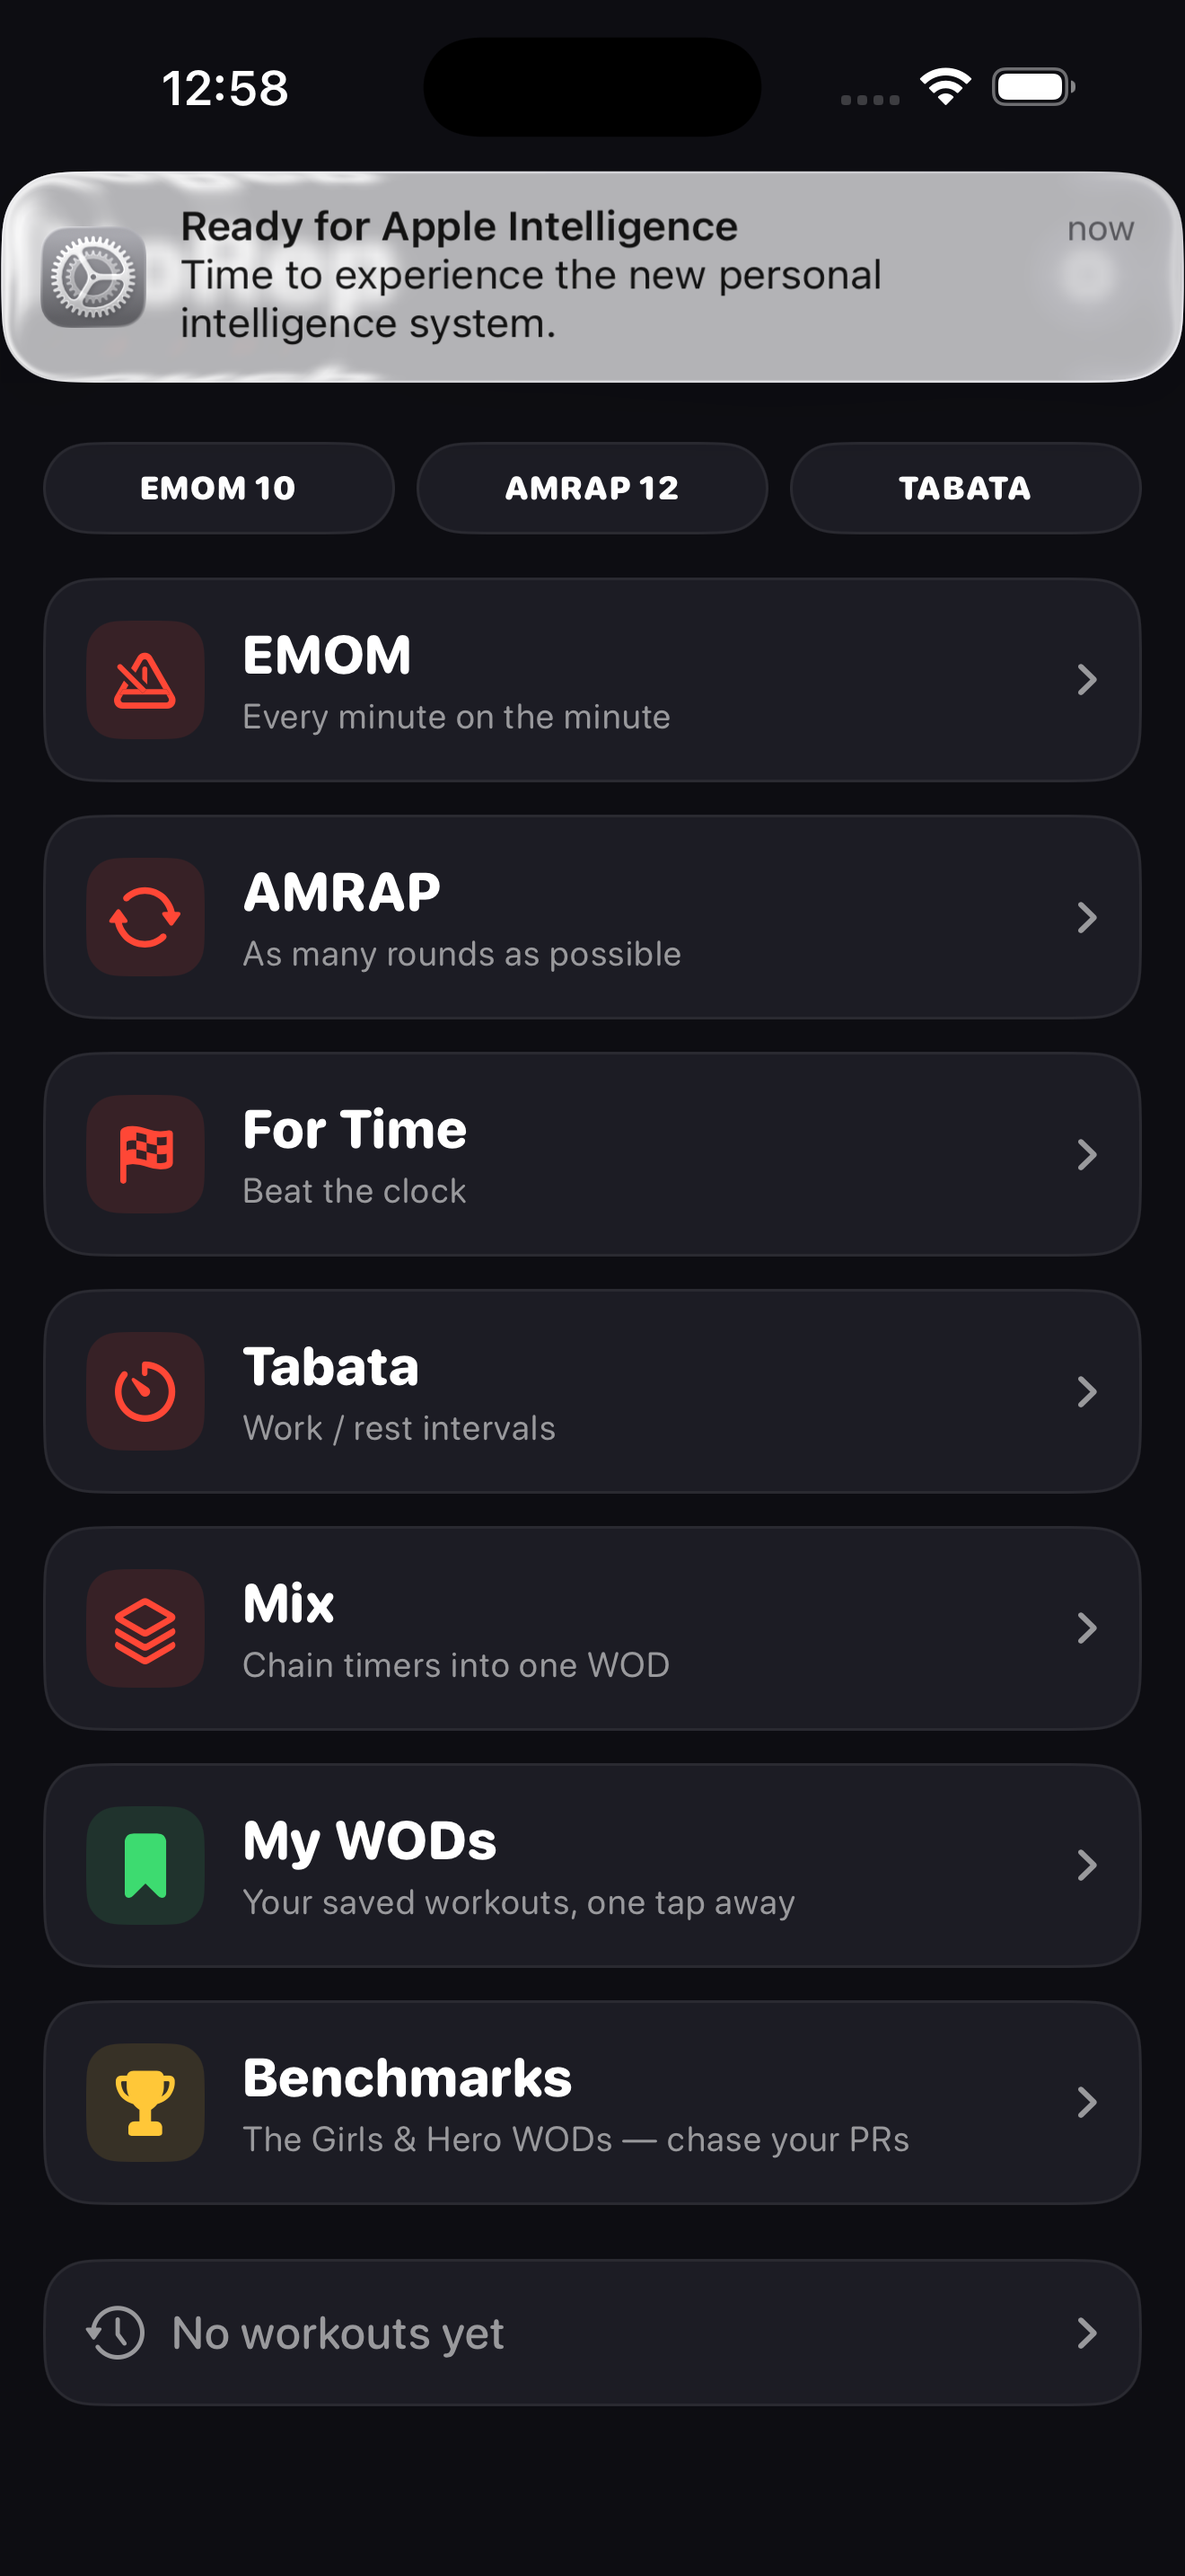
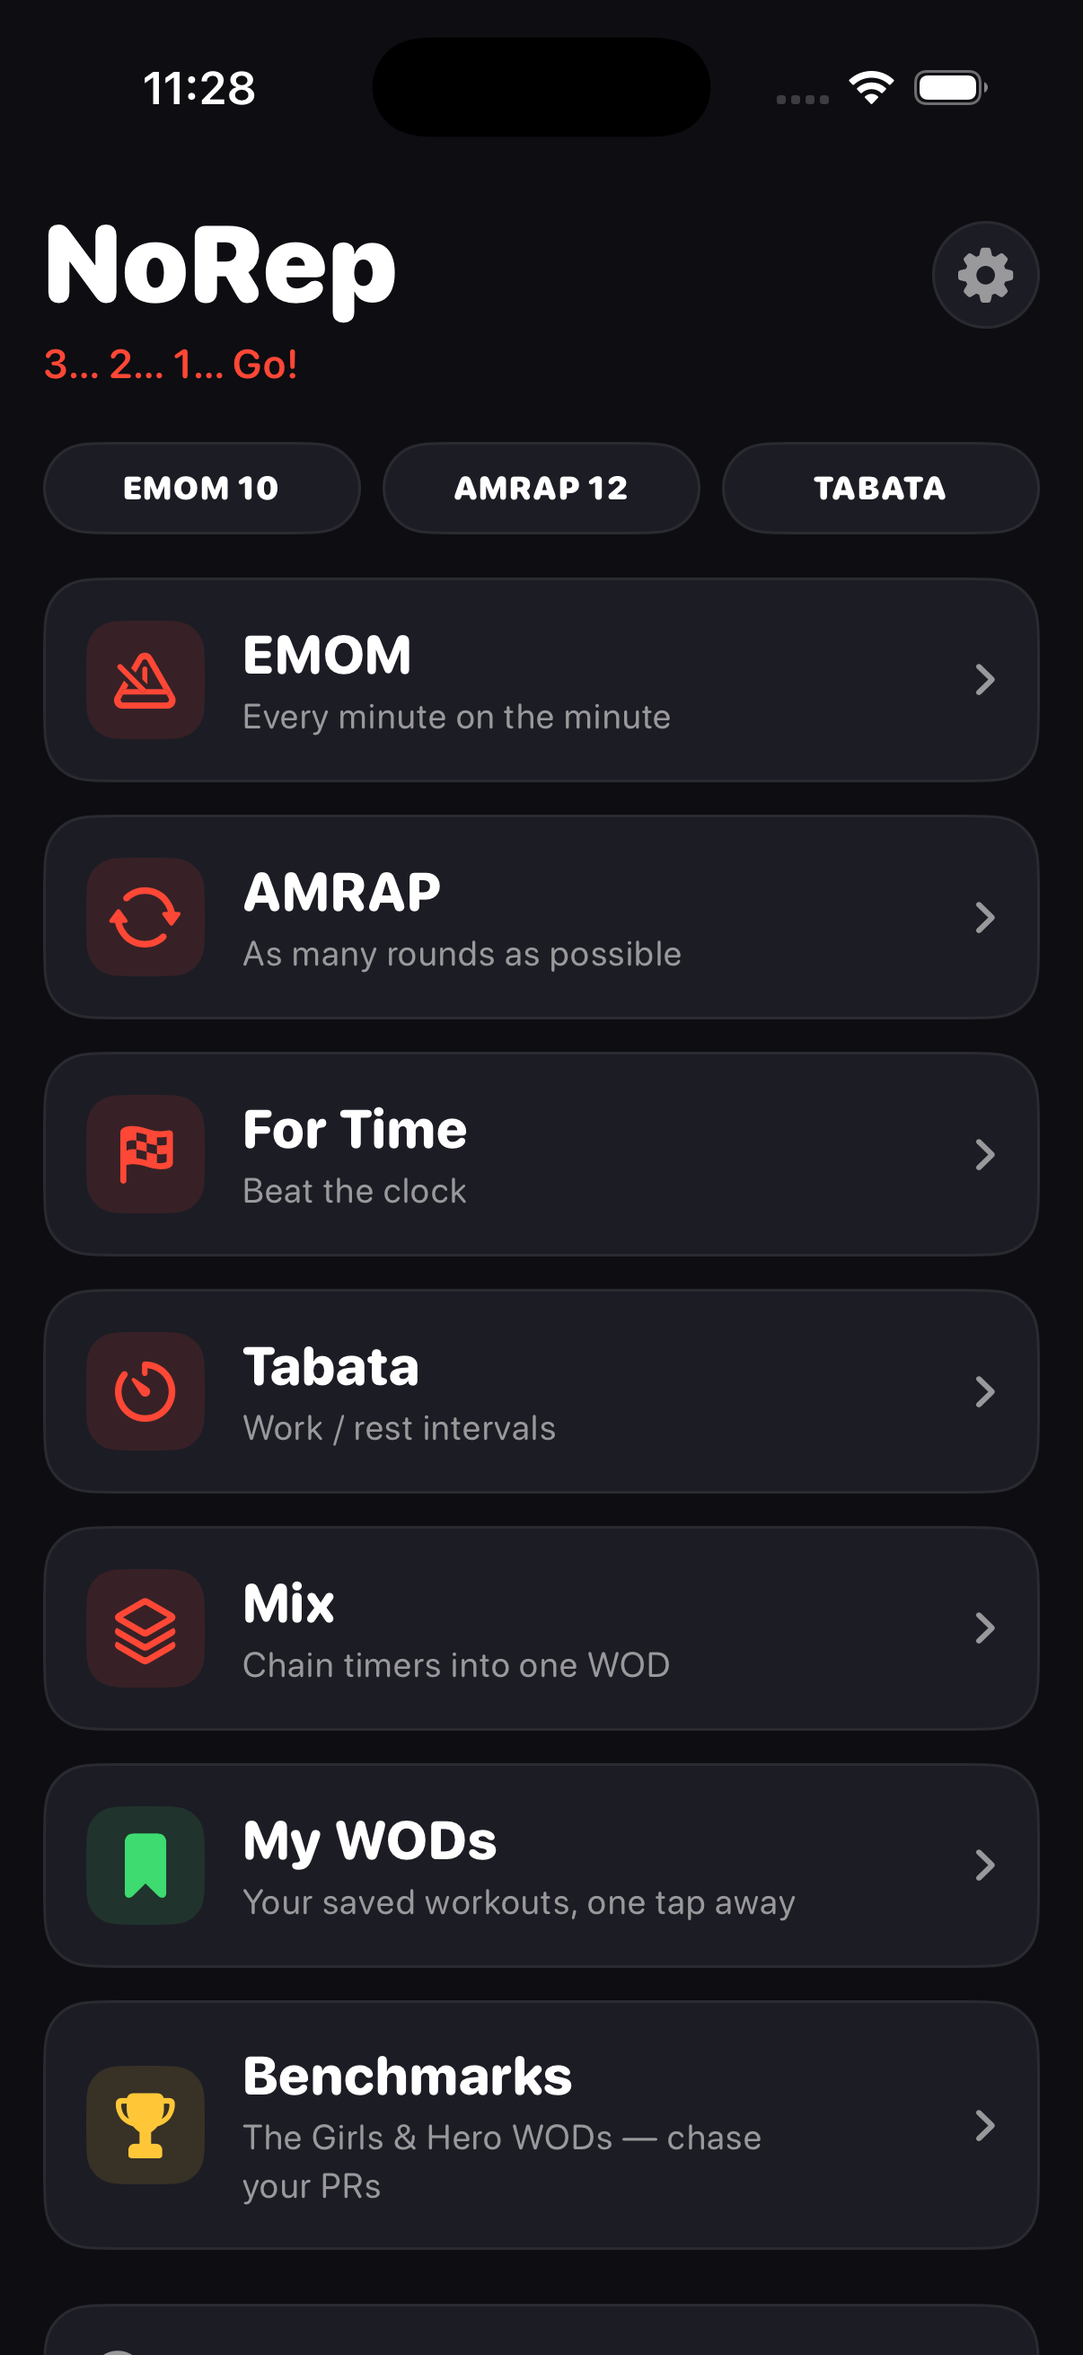
App Store promo slides (6.5", 1284×2778) + generator script
Six marketing images: dark brand background with per-slide accent glow,
headline/subheadline, and a bezeled screenshot bleeding off the bottom.
Regenerate with: swift Tools/promo.swift AppStore/screenshots-1.3-69 AppStore/promo-1.3

diff --git a/Tools/promo.swift b/Tools/promo.swift
@@ -1,0 +1,158 @@
+import AppKit
+
+let W = 1284, H = 2778
+
+struct Slide {
+    let shot: String
+    let headline: String
+    let sub: String
+    let glow: NSColor
+}
+
+let accent = NSColor(srgbRed: 1.0, green: 0.28, blue: 0.21, alpha: 1)
+let slides: [Slide] = [
+    Slide(shot: "01-home.png",
+          headline: "Every timer\nyour box uses",
+          sub: "EMOM · AMRAP · For Time · Tabata · Mix",
+          glow: accent),
+    Slide(shot: "02-workout.png",
+          headline: "Readable from\nacross the gym",
+          sub: "Huge digits, loud cues, your WOD on screen",
+          glow: NSColor(srgbRed: 0.24, green: 0.86, blue: 0.44, alpha: 1)),
+    Slide(shot: "03-summary-pr.png",
+          headline: "It knows when\nyou set a PR",
+          sub: "Name your WOD — NoRep tracks every record",
+          glow: NSColor(srgbRed: 1.0, green: 0.78, blue: 0.22, alpha: 1)),
+    Slide(shot: "04-journal.png",
+          headline: "Your training,\none screen",
+          sub: "Streak, heatmap, splits and progress charts",
+          glow: NSColor(srgbRed: 0.24, green: 0.86, blue: 0.44, alpha: 1)),
+    Slide(shot: "05-benchmarks.png",
+          headline: "Fran, Murph\n& 23 more",
+          sub: "Benchmark WODs as one-tap presets",
+          glow: NSColor(srgbRed: 1.0, green: 0.78, blue: 0.22, alpha: 1)),
+    Slide(shot: "06-settings.png",
+          headline: "Make it\nyours",
+          sub: "6 sound packs · 5 icons · 7 languages",
+          glow: NSColor(srgbRed: 0.27, green: 0.60, blue: 1.0, alpha: 1)),
+]
+
+func roundedFont(size: CGFloat, weight: NSFont.Weight) -> NSFont {
+    let base = NSFont.systemFont(ofSize: size, weight: weight)
+    if let desc = base.fontDescriptor.withDesign(.rounded), let f = NSFont(descriptor: desc, size: size) {
+        return f
+    }
+    return base
+}
+
+let inputDir = CommandLine.arguments[1]
+let outputDir = CommandLine.arguments[2]
+try? FileManager.default.createDirectory(atPath: outputDir, withIntermediateDirectories: true)
+
+for slide in slides {
+    guard let rep = NSBitmapImageRep(
+        bitmapDataPlanes: nil, pixelsWide: W, pixelsHigh: H,
+        bitsPerSample: 8, samplesPerPixel: 4, hasAlpha: true, isPlanar: false,
+        colorSpaceName: .deviceRGB, bytesPerRow: 0, bitsPerPixel: 0
+    ) else { continue }
+    rep.size = NSSize(width: W, height: H)
+
+    NSGraphicsContext.saveGraphicsState()
+    NSGraphicsContext.current = NSGraphicsContext(bitmapImageRep: rep)
+
+    // Background gradient
+    let bg = NSGradient(colors: [
+        NSColor(srgbRed: 0.115, green: 0.115, blue: 0.15, alpha: 1),
+        NSColor(srgbRed: 0.04, green: 0.04, blue: 0.06, alpha: 1)
+    ])!
+    bg.draw(in: NSRect(x: 0, y: 0, width: W, height: H), angle: -90)
+
+    // Accent glow behind the phone
+    let glowGrad = NSGradient(colors: [
+        slide.glow.withAlphaComponent(0.32),
+        slide.glow.withAlphaComponent(0.0)
+    ])!
+    glowGrad.draw(fromCenter: NSPoint(x: W / 2, y: 1050), radius: 0,
+                  toCenter: NSPoint(x: W / 2, y: 1050), radius: 950, options: [])
+
+    // Brand chip: ring + slash + name
+    let chipY = CGFloat(H - 150)
+    let ringRect = NSRect(x: CGFloat(W) / 2 - 150, y: chipY - 6, width: 44, height: 44)
+    let ring = NSBezierPath(ovalIn: ringRect)
+    ring.lineWidth = 7
+    NSColor.white.setStroke()
+    ring.stroke()
+    let slash = NSBezierPath()
+    slash.move(to: NSPoint(x: ringRect.minX - 7, y: ringRect.minY - 7))
+    slash.line(to: NSPoint(x: ringRect.maxX + 7, y: ringRect.maxY + 7))
+    slash.lineWidth = 9
+    slash.lineCapStyle = .round
+    accent.setStroke()
+    slash.stroke()
+    let brand = NSAttributedString(string: "NoRep", attributes: [
+        .font: roundedFont(size: 52, weight: .black),
+        .foregroundColor: NSColor.white
+    ])
+    brand.draw(at: NSPoint(x: CGFloat(W) / 2 - 88, y: chipY - 12))
+
+    // Headline
+    let paragraph = NSMutableParagraphStyle()
+    paragraph.alignment = .center
+    paragraph.lineHeightMultiple = 0.95
+    let headline = NSAttributedString(string: slide.headline, attributes: [
+        .font: roundedFont(size: 118, weight: .heavy),
+        .foregroundColor: NSColor.white,
+        .paragraphStyle: paragraph
+    ])
+    headline.draw(in: NSRect(x: 40, y: H - 560, width: W - 80, height: 330))
+
+    // Subheadline
+    let sub = NSAttributedString(string: slide.sub, attributes: [
+        .font: roundedFont(size: 46, weight: .semibold),
+        .foregroundColor: NSColor.white.withAlphaComponent(0.62),
+        .paragraphStyle: paragraph
+    ])
+    sub.draw(in: NSRect(x: 60, y: H - 680, width: W - 120, height: 90))
+
+    // Phone: bezel + clipped screenshot, bleeding off the bottom
+    guard let shot = NSImage(contentsOfFile: "\(inputDir)/\(slide.shot)") else { continue }
+    let phoneW: CGFloat = 1010
+    let shotAspect = 2868.0 / 1320.0
+    let phoneH = phoneW * shotAspect
+    let bezelPad: CGFloat = 18
+    let phoneX = (CGFloat(W) - phoneW) / 2
+    let phoneTop = CGFloat(H) - 760
+    let phoneRect = NSRect(x: phoneX, y: phoneTop - phoneH, width: phoneW, height: phoneH)
+    let bezelRect = phoneRect.insetBy(dx: -bezelPad, dy: -bezelPad)
+
+    // Shadow + bezel
+    NSGraphicsContext.current?.saveGraphicsState()
+    let shadow = NSShadow()
+    shadow.shadowColor = NSColor.black.withAlphaComponent(0.75)
+    shadow.shadowBlurRadius = 70
+    shadow.shadowOffset = NSSize(width: 0, height: -24)
+    shadow.set()
+    NSColor(srgbRed: 0.10, green: 0.10, blue: 0.13, alpha: 1).setFill()
+    NSBezierPath(roundedRect: bezelRect, xRadius: 108, yRadius: 108).fill()
+    NSGraphicsContext.current?.restoreGraphicsState()
+
+    // Bezel edge highlight
+    let edge = NSBezierPath(roundedRect: bezelRect, xRadius: 108, yRadius: 108)
+    edge.lineWidth = 3
+    NSColor.white.withAlphaComponent(0.14).setStroke()
+    edge.stroke()
+
+    // Screenshot clipped inside
+    NSGraphicsContext.current?.saveGraphicsState()
+    NSBezierPath(roundedRect: phoneRect, xRadius: 90, yRadius: 90).addClip()
+    shot.draw(in: phoneRect, from: .zero, operation: .sourceOver, fraction: 1.0)
+    NSGraphicsContext.current?.restoreGraphicsState()
+
+    NSGraphicsContext.restoreGraphicsState()
+
+    if let png = rep.representation(using: .png, properties: [:]) {
+        let out = "\(outputDir)/\(slide.shot)"
+        try? png.write(to: URL(fileURLWithPath: out))
+        print(out)
+    }
+}
